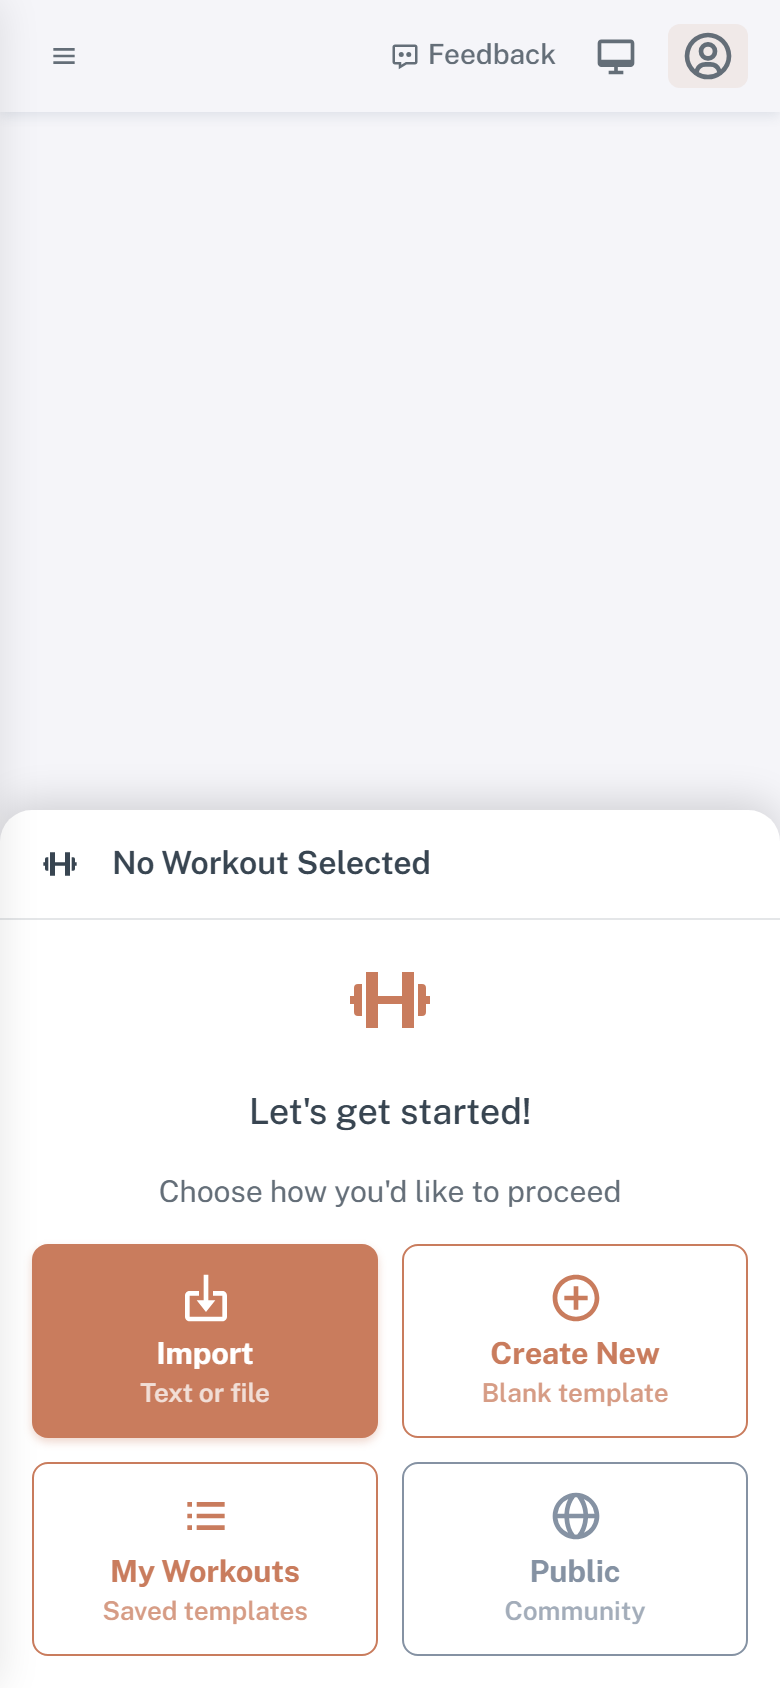
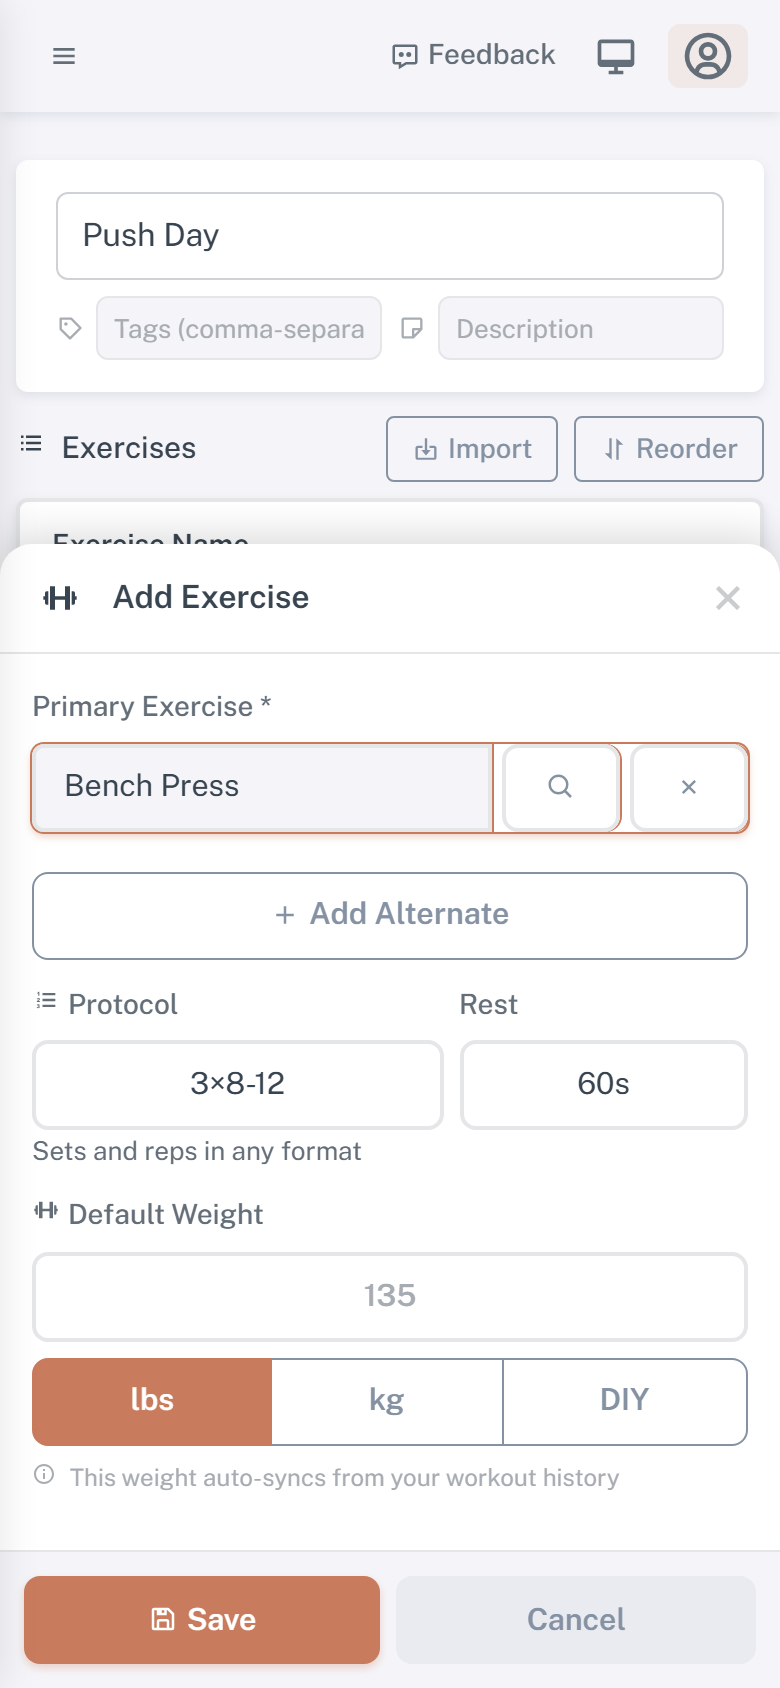
feat: marketing landing page at /launch with dark hero, feature showcases, and Playwright screenshot script

diff --git a/docs/user-flows/landing-screenshots.js b/docs/user-flows/landing-screenshots.js
@@ -227,9 +227,9 @@ const SCENARIOS = [
   },
   {
     name: 'landing-feature-builder',
-    description: 'Feature: Workout builder form with exercises (interactive)',
+    description: 'Feature: Workout builder editor with exercise group offcanvas',
     run: async (page, baseUrl) => {
-      // Navigate to new workout editor and fill it in via Playwright interactions
+      // Navigate to new workout editor
       await page.goto(`${baseUrl}/workout-builder.html?new=true`, {
         waitUntil: 'networkidle', timeout: 15000
       });
@@ -237,58 +237,28 @@ const SCENARIOS = [
       await waitForAny(page, '#workoutName, #workoutEditorForm', 8000);
       await page.waitForTimeout(1500);
 
-      // Type workout name
+      // Type a workout name
       const nameInput = await page.$('#workoutName');
       if (nameInput) {
         await nameInput.fill('Push Day');
         await page.waitForTimeout(500);
       }
 
-      // Click "Add Exercise" button to add exercise groups
+      // Click "Add Exercise" to open the exercise group editor offcanvas
       const addBtn = await page.$('#addExerciseGroupBtnVisible');
       if (addBtn) {
         await addBtn.click();
-        await page.waitForTimeout(800);
-        // Type first exercise name
-        const exInput = await page.$('.exercise-name-input:last-of-type');
+        await page.waitForTimeout(1200);
+
+        // Type into the exercise search input inside the offcanvas
+        const exInput = await page.$('#primaryExerciseInput');
         if (exInput) {
-          await exInput.fill('Barbell Bench Press');
-          await page.waitForTimeout(600);
-          // Click away to dismiss autocomplete
-          await page.click('#workoutName');
-          await page.waitForTimeout(300);
-        }
-
-        // Add second exercise
-        const addBtn2 = await page.$('#addExerciseGroupBtnVisible');
-        if (addBtn2) {
-          await addBtn2.click();
-          await page.waitForTimeout(800);
-          const exInput2 = await page.$('.exercise-name-input:last-of-type');
-          if (exInput2) {
-            await exInput2.fill('Overhead Press');
-            await page.waitForTimeout(600);
-            await page.click('#workoutName');
-            await page.waitForTimeout(300);
-          }
-        }
-
-        // Add third exercise
-        const addBtn3 = await page.$('#addExerciseGroupBtnVisible');
-        if (addBtn3) {
-          await addBtn3.click();
-          await page.waitForTimeout(800);
-          const exInput3 = await page.$('.exercise-name-input:last-of-type');
-          if (exInput3) {
-            await exInput3.fill('Incline Dumbbell Press');
-            await page.waitForTimeout(600);
-            await page.click('#workoutName');
-            await page.waitForTimeout(300);
-          }
+          await exInput.fill('Bench Press');
+          await page.waitForTimeout(1500);
         }
       }
 
-      await page.waitForTimeout(1000);
+      await page.waitForTimeout(500);
     }
   },
   {
